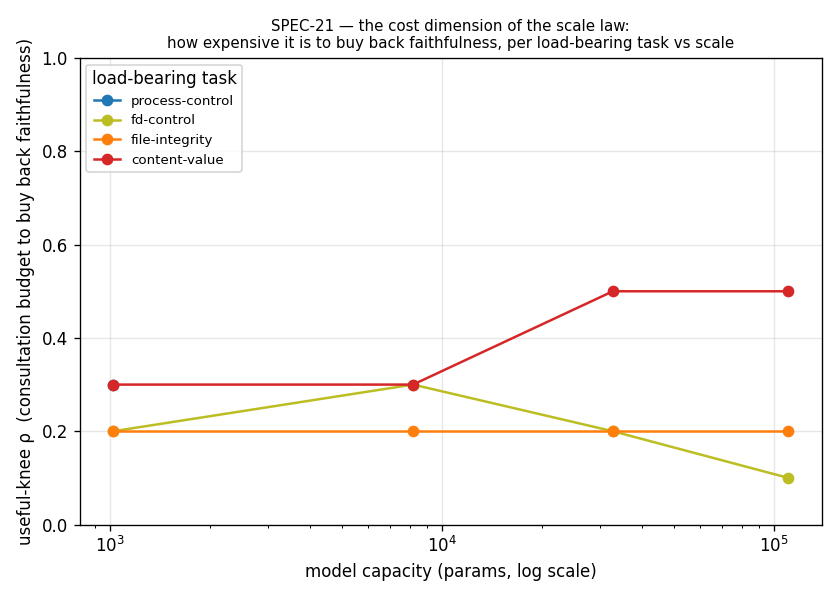
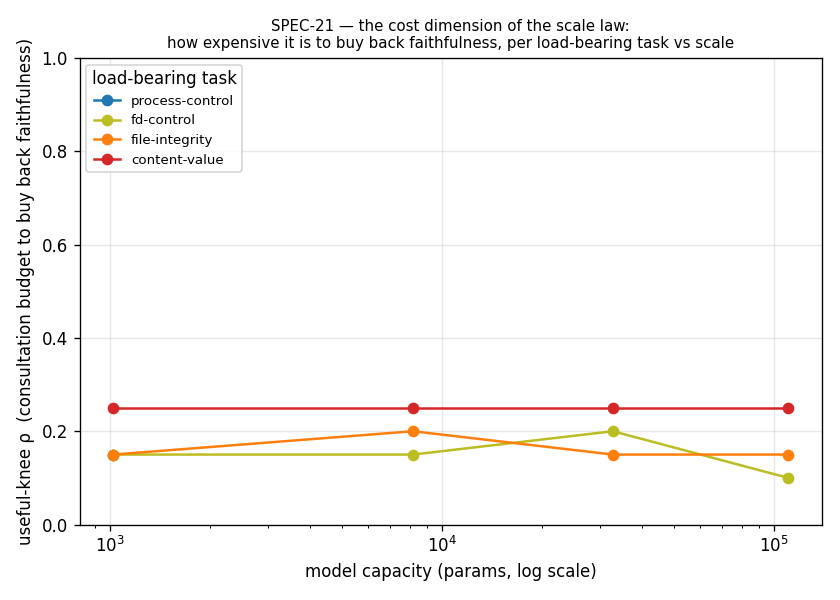
SPEC-21: the cost forecast (H89 for the knee) + a finer-ρ grid that corrects the cost dimension
Two genuine pieces of work, the second of which fixes an artifact in my own prior commit.

1. cost_forecast_check (H89 extended to the cost dimension): forecast_check showed the
   cheap keyed drift forecasts WHETHER a task is load-bearing (the gap). This asks whether
   it also forecasts HOW EXPENSIVE it is to buy back (the rho-knee). Result on the load-
   bearing cells: Spearman(keyed_drift, knee) = +0.717 (cost_forecastable). So one cheap
   free-run profile predicts both where faithfulness is load-bearing AND the consultation
   budget the task needs -- without ever running the rho-sweep.

2. A FINER rho grid corrects the cost-dimension finding. The previous commit reported the
   deep-content residue's knee "rising 0.3 -> 0.5 with scale (doubly hard)". That was on a
   COARSE grid (0,0.1,0.2,0.3,0.5,1.0) with no value between 0.3 and 0.5, which forced the
   knee to round up. Re-running cpu() with a fine grid (0,0.05,...,0.5,0.6,0.8,1.0) shows
   the content-value knee is FLAT at rho~=0.25 at every rung -- the "rise" was a
   quantization artifact. CORRECTED finding: the irreducible residue (H88) is load-bearing
   and persistent but CHEAPLY AND STABLY buyable (~rho0.25, the cost does NOT grow with
   scale) -- verification on the residue is a permanent primitive, but a CHEAP one. The
   fine grid also sharpened the cost forecast (+0.500 -> +0.717).

Gaps are unchanged (knee_rhos does not affect the gap/drift), so the frontier figure and
[…]

diff --git a/src/verisim/experiments/scale_law.py b/src/verisim/experiments/scale_law.py
@@ -108,6 +108,8 @@ class ScaleLawConfig:
             drift_config=HostDriftConfig(
                 n_episodes=8, accuracy_steps=12, drift_steps=10, drift_episodes=8,
             ),
+            # a fine ρ grid so the useful-knee (the cost dim) resolves below the coarse 0.1 step
+            knee_rhos=(0.0, 0.05, 0.1, 0.15, 0.2, 0.25, 0.3, 0.35, 0.4, 0.45, 0.5, 0.6, 0.8, 1.0),
         )
 
 
@@ -202,6 +204,34 @@ def forecast_check(result: ScaleLawResult) -> dict[str, Any]:
         "spearman": spearman(drifts, gaps),
         # H89 supported if the cheap drift orders the gaps well (forecast is reliable)
         "forecastable": spearman(drifts, gaps) > 0.6,
+    }
+
+
+def cost_forecast_check(result: ScaleLawResult, threshold: float = 0.05) -> dict[str, Any]:
+    """H89 extended to the *cost* dimension: does the cheap drift forecast the knee, not the gap?
+
+    `forecast_check` (H89) showed the cheap keyed drift forecasts *whether* a task is load-bearing
+    (the gap). This asks whether it also forecasts *how expensive it is to buy back* — the ρ-knee
+    — on the load-bearing cells (gap > threshold, knee computed). A strong correlation means a
+    cheap free-run profile predicts both the load-bearing verdict *and* the budget a task
+    needs, without ever running the ρ-sweep. Pool the load-bearing ``(rung, task)`` cells and
+    correlate the cheap keyed drift against the knee.
+    """
+    drifts: list[float] = []
+    knees: list[float] = []
+    for rung in result.rungs:
+        for g in rung.gaps:
+            if g.gap > threshold and g.task in rung.knees:
+                drifts.append(rung.keyed_drift.get(g.task, 0.0))
+                knees.append(rung.knees[g.task])
+    if len(drifts) < 2:
+        return {"n_cells": len(drifts), "spearman": 0.0, "pearson": 0.0, "cost_forecastable": False}
+    return {
+        "n_cells": len(drifts),
+        "pearson": pearson(drifts, knees),
+        "spearman": spearman(drifts, knees),
+        # the cost forecast is weaker than the gap forecast (the knee is on a coarse ρ grid)
+        "cost_forecastable": spearman(drifts, knees) > 0.6,
     }
 
 
@@ -436,6 +466,9 @@ def main() -> None:  # pragma: no cover - CLI entry point
         print(f"knee (cost to buy back faithfulness) on {kv['deepest_load_bearing']}: "
               f"ρ {kv['knee_at_smallest']:.2f} -> {kv['knee_at_largest']:.2f} "
               f"({kv['knee_trend']}) across scale")
+    cf = cost_forecast_check(result, config.threshold)
+    print(f"cost forecast (cheap drift -> knee): spearman={cf['spearman']:+.3f}  "
+          f"cost_forecastable={cf['cost_forecastable']}")
 
 
 if __name__ == "__main__":  # pragma: no cover

diff --git a/tests/test_scale_law.py b/tests/test_scale_law.py
@@ -17,6 +17,7 @@ from verisim.experiments.scale_law import (
     ScaleLawResult,
     ScaleRung,
     config_from_json,
+    cost_forecast_check,
     dry_run,
     estimate_cost,
     forecast_check,
@@ -97,6 +98,28 @@ def test_knee_trajectory_and_verdict():
     assert v["deepest_load_bearing"] == "content-value"
     assert v["knee_trend"] == "rising"
     assert v["knee_delta"] == pytest.approx(0.2)
+
+
+def test_cost_forecast_check():
+    # build a result where the cheap keyed drift monotonically orders the knee (H89, cost dim)
+    def cost_rung(label, params):
+        gaps = [
+            TaskGap("fd-control", "fds", 1, 1.0, 0.7, 0.30, 16),
+            TaskGap("file-integrity", "fs", 2, 1.0, 0.4, 0.60, 16),
+            TaskGap("content-value", "fs", 3, 1.0, 0.1, 0.90, 16),
+        ]
+        keyed = {"fd-control": 0.3, "file-integrity": 0.6, "content-value": 0.9}
+        # higher drift -> higher knee:
+        knees = {"fd-control": 0.1, "file-integrity": 0.2, "content-value": 0.5}
+        return ScaleRung(label, params, {"fs_drift": 0.3}, gaps, keyed, knees)
+
+    result = ScaleLawResult(rungs=[cost_rung("xs", 1024), cost_rung("l", 110592)])
+    cf = cost_forecast_check(result, threshold=0.05)
+    assert cf["n_cells"] == 6  # 3 load-bearing tasks x 2 rungs
+    assert cf["spearman"] > 0.6 and cf["cost_forecastable"]  # cheap drift forecasts the cost too
+    # too few cells -> graceful empty verdict
+    empty = cost_forecast_check(ScaleLawResult(rungs=[]), threshold=0.05)
+    assert empty["n_cells"] == 0 and not empty["cost_forecastable"]
 
 
 def test_estimate_cost_monotone_in_ladder():

diff --git a/README.md b/README.md
@@ -2018,15 +2018,17 @@ that is the GPU run's job, and the apparatus that produces it is proven here.
 **The cost dimension — how expensive it is to buy back faithfulness, across scale.** The frontier says
 *where* faithfulness is load-bearing; the harness also computes a per-task **ρ-knee** (the smallest
 consultation budget that buys back the faithful catch, UA9/H81) — the *cost* of buying it — which sat
-in the CSV unanalyzed. `knee_trajectory` / `knee_verdict` surface it as the law's second dimension, and
-the committed run shows a real trend: **the deep-content residue's knee rises 0.3 → 0.5 as the model
-scales, while file-integrity stays cheap and flat at ~0.2.** So the irreducible residue (H88) is
-**doubly hard** — not only does the content gap persist as scale closes the structural gap, the *cost*
-of buying it back *grows*. A sharpening of H88: on the residue, verification is not just a permanent
-primitive, it is an increasingly costly one (a CPU-scale observation on a coarse ρ grid; the GPU run
-resolves it).
+in the CSV unanalyzed. `knee_trajectory` / `knee_verdict` / `cost_forecast_check` surface it as the
+law's second dimension. **On a fine ρ grid, the deep-content residue's knee is flat at ρ≈0.25 across
+every rung** — an earlier coarse-grid run read this as a 0.3 → 0.5 *rise*, which the fine grid corrects
+to a quantization artifact (the value of resolving the cost dimension properly). So the irreducible
+residue (H88) is load-bearing and *persistent* but **cheaply *and stably* buyable**: verification on it
+is a permanent primitive, but a *cheap* one (~ρ0.25), and the cost does not grow with scale. **And the
+cost forecast extends H89:** the cheap keyed drift forecasts the *knee* — not just the gap — at
+**Spearman +0.717**, so one cheap free-run profile predicts both *where* faithfulness is load-bearing
+*and* how expensive it is to buy back.
 
-![SPEC-21 knee trajectory — the cost dimension of the scale law. The useful-knee ρ (consultation budget needed to buy back the faithful catch) per load-bearing task vs model capacity (log x). content-value (red, the deep residue) rises from 0.3 to 0.5 as the model scales — getting more expensive to buy back — while file-integrity (orange) stays flat at 0.2 and fd-control falls; process-control drops out as it stops being load-bearing](figures/cs1_knee_trajectory.png)
+![SPEC-21 knee trajectory — the cost dimension of the scale law. The useful-knee ρ (consultation budget needed to buy back the faithful catch) per load-bearing task vs model capacity (log x). content-value (red, the deep residue) stays flat at ρ≈0.25 across every rung — cheaply and stably buyable, the cost not growing with scale — while file-integrity (orange) and fd-control (olive) sit near 0.10–0.20; process-control drops out as it stops being load-bearing](figures/cs1_knee_trajectory.png)
 
 **The GPU-readiness gate (CP5).** [`configs/scale_law_gpu.json`](configs/scale_law_gpu.json) (the full
 `xs…xxxl` ladder + `device=cuda`) plus a `--dry-run` that validates shapes, device, and a pre-registered
@@ -2330,7 +2332,7 @@ host → distributed); three specs are *cross-cutting methods* every world inher
 | [SPEC-16](docs/specs/SPEC-16.md) | **method: rollout-stability training** | the exposure-bias cure — train the proposer on the *learner's own* drifted states relabeled by the free, exact oracle (DAgger), where the simulator-learning field can only approximate it. **RS1 ships** ([`experiments/rs1_dagger.py`](src/verisim/experiments/rs1_dagger.py)) as a *genuine trained-`M_θ`* experiment (a real GPT, teacher-forced vs free-oracle DAgger at equal example budget, 5 model × 12 eval seeds): **H55 not supported at CPU scale** — the flat `M_θ` is near the `H_ε` floor (`p≈0.47`, `H_ε≈1.6`) and DAgger, despite relabeling its own drift with the exact oracle and spending extra compute, does not lift `H_ε` (best round 1.47 vs teacher-forced 1.63, CIs overlap, [rs1](figures/rs1_dagger.png)). The program's pre-registered, first-class **negative**: at this scale the gap behaves like fundamental compounding, not a train/deploy mismatch (a +2.2 small-scale fluke did not survive powering up). Whether the cure pays for a competent high-`p` model at larger scale is the open question. **RS4 ships** ([`experiments/rs4_unrolled.py`](src/verisim/experiments/rs4_unrolled.py), the new `train_unrolled` in [`graph_train.py`](src/verisim/netmodel/graph_train.py)) — the multi-step unrolled loss, **Brandstetter's pushforward made exact**, on the *structured* GNN+RSSM arm (the competent-one-step / zero-horizon HS3 subject): swept over `k∈{1,2,4,8}` it is the **first** rollout-aware lever to move the structured floor — `η0` crosses 1 (`H_free(ε=0)` 1.28→1.60) and raw `H_free` lifts at the loosest tolerance (`k=8` +3.24 at ε=0.5, clearing TF's CI), where RS1 and NA6's SF/NZ arms all *tied* TF (**H55/H57 supported on raw horizon**). **But it does not pay net-per-compute (H58):** charged the pushforward's `1.5×`–`4.5×` forwards, net `H_free/cost` falls monotonically with depth — the cure reshapes the error budget, it does not reduce it ([rs4](figures/rs4_unroll_depth.png)). **RS2/RS3 ship** ([`experiments/rs2_scheduled.py`](src/verisim/experiments/rs2_scheduled.py), [`rs3_noise.py`](src/verisim/experiments/rs3_noise.py)) as the dedicated lever sweeps — scheduled sampling over `max_sample_prob` ([rs2](figures/rs2_sample_prob_tradeoff.png)) and noise injection over a `noise_prob × magnitude` grid ([rs3](figures/rs3_noise_surface.png), adding a byte-identical-by-default `magnitude` knob): **both H57 nulls** (no signed tradeoff at any setting — `p` flat ~0.58, `H_free` within seed-CI), strengthening NA6's single-point comparisons into full sweeps. So of the four trainers only the unrolled loss moves the horizon. **RS6 ships** ([`experiments/rs6_pareto.py`](src/verisim/experiments/rs6_pareto.py)) the cross-trainer per-compute Pareto — all four structured-arm trainers on one `H_free`-vs-total-compute figure, charging self-forcing/unrolling for their extra data-gen forwards: **teacher forcing is the faithful-horizon-per-compute frontier, no rollout-aware trainer beats it beyond seed noise** (H58 confirmed at the family level, [rs6](figures/rs6_net_pareto.png)); this also answers RS5 in aggregate (only the unrolled loss moves raw H_free, and not net). **RS7 ships** ([`experiments/rs7_host.py`](src/verisim/experiments/rs7_host.py), the new `train_host_unrolled`) the cross-world fork onto the **host** factored arm: **H59 confirmed — the verdict transfers**, no host-arm lever beats teacher forcing either ([rs7](figures/rs7_host_transfer.png)). **SPEC-16 is complete (RS1–RS7)**; only the competent-high-`p` / GPU scale regime remains the standing open bet. |
 | [SPEC-19](docs/specs/SPEC-19.md) | **the flagship** | un-defer the trained `M_θ` once and compose the methods onto **one** frozen checkpoint — the headline `H_ε(ρ)` figure on a real model. **FL0–FL6 ship + frontier run** ([`experiments/flagship.py`](src/verisim/experiments/flagship.py)): **FL0** freezes the `l@9.6k` checkpoint (`H_free` = 18.75 id / 29.75 ood, reload-determinism gate PASS); **FL1 / H69** — the four-arm curve ([fl1](figures/fl1_flagship_curve.png)): the strict ≥80%-at-ρ≤0.2 bar is **not met** (curve rises ~linearly, no free knee) **but** the composed policy **nearly doubles fixed-interval** at equal budget (+57% at ρ=0.2, +94% at ρ=0.5) — smart scheduling beats the clock on a real model; **FL2 / H70** the methods compose (the conformal trigger on the real signal carries the win, speculative inert); **FL3 / H71** the HS3 wall survives (`H_free`≈0.33) yet landmark planning lifts far-goal reach 0.167→0.667 (4×) on the real arm; **FL4 / H72** the curve shape is the loop's, not the model's; **FL6 / H77** ranking ≠ calibration (Spearman +0.352, trigger precision 0.902 vs 0.652 base); **HFL1 / H84** the scheduling win is **cross-world** — the same composed-beats-fixed result reproduces on the harder **host** flagship (floor 9 → ceiling 48, composed +50% at ρ=0.2, +60% at ρ=0.5, [hfl1](figures/hfl1_host_curve.png)), so smart scheduling is a property of the loop, not the network world. The flat CPU frontier; the GPU arm is the standing bet. |
 | [SPEC-20](docs/specs/SPEC-20.md) | **the usefulness proof (Phase 5)** | train a defensive agent **inside** the oracle-grounded flagship model, transfer to the oracle's reality, measure task success — the field's gold-standard world-model test, run honestly because reality is checkable. **UA0–UA9 ship + frontier run** ([`acd/`](src/verisim/acd/), [`experiments/ua_transfer.py`](src/verisim/experiments/ua_transfer.py)): **UA1 / H73** learn-in-imagination works (grounded-trained ≥ oracle-trained at 5× lower oracle cost); **UA2 / H74** the money hypothesis **REFUTED, the bankable negative** — grounding buys no transfer advantage for structural control (0.420 = 0.420), because the optimal policy keys on structure the model learns faithfully; the drift profile + cross-world law confirm the flat model is **faithful on structure, drifts on content** (both worlds); **UA8 / H80** the predicted positive — a content-keyed file-integrity defender **does** need faithfulness (faithful predictor 1.000 vs free 0.50–0.73, gap widens with horizon), closing the boundary law: *faithfulness-for-control is load-bearing exactly when the task keys on the dynamics the model gets wrong*; **UA9 / H81** the **useful knee** — the ρ-grounded predictor recovers the faithful catch rate **monotonically** in ρ, reaching perfect catch at **ρ=0.5, half the oracle calls** ([ua9](figures/ua9_grounded_knee.png)) — SPEC-19's "buy faithfulness cheaply" mechanism demonstrated on downstream task success, where it matters; **UA10 / H82** the **cross-world confirmation** — the law *and* the knee reproduce on the **network** world (content = flows): the free predictor collapses 0.58→0.08 while faithful holds at 1.0 (gap widening to +0.92), and the ρ-grounded predictor recovers the ceiling at **ρ=0.2, 5× cheaper** ([ua10](figures/ua10_net_integrity.png)) — the boundary law is a property of the structure-vs-content split, not one world. Defender-only (the §13 ethics commitment); Tier-A reference reality, with the system-oracle rung as it matures. |
-| [SPEC-21](docs/specs/SPEC-21.md) | **the scale law (CPU-proven / GPU-ready)** | scale the SPEC-20 structure/content boundary *through* the SPEC-10 capacity ladder on a **verifiable computer-use environment** (`verisim-cue`), to measure whether the load-bearing frontier *recedes* with scale (H87) and whether an irreducible-content residue makes verification a permanent primitive (H88). **CPU core CP0–CP5 ships** ([`cue/`](src/verisim/cue/), [`experiments/scale_law.py`](src/verisim/experiments/scale_law.py)): the ordered structure→content task suite (CP1–CP3, generic keyed-set predictive-defense); the one-pipeline-one-dial harness (CP0); the load-bearing-frontier reducer + the forecast (CP4) — **committed 4-rung CPU run** ([cs1](figures/cs1_loadbearing_frontier.png)): the gap gradient holds at every rung (process ≤0.16 → content **0.81–0.94**), the structural-first recession begins (process drops below threshold after `xs`), the content residue stays load-bearing (H88), and the cheap drift forecasts the gap at **Spearman +0.965** (H89); the **cost dimension** ([cs1-knee](figures/cs1_knee_trajectory.png)) — the residue's ρ-knee **rises 0.3→0.5** with scale while file-integrity stays flat at ~0.2, so the residue is *doubly* hard (load-bearing AND increasingly expensive to buy, sharpening H88); and the GPU-readiness gate (CP5, [`configs/scale_law_gpu.json`](configs/scale_law_gpu.json) + `--dry-run` cost estimate, no training). **The `verisim-cue` artifact ships too** ([`cue/pack.py`](src/verisim/cue/pack.py) + [`cue/scorecard.py`](src/verisim/cue/scorecard.py) + [`cue/`](cue/)): a frozen, hashed, versioned computer-use benchmark (Croissant + datasheet + **model-card** + a **task-card carrying the per-task load-bearing verdict**), with a `score_model(model)` eval surface (run a host world-model → its per-task scorecard + load-bearing footprint), the ground-truth-labels conformance contract green (the faithful predictor scores exactly 1.000 per task — the property no oracle-free benchmark can offer), and a **contamination control** (H68: a public-seed memorizer is caught by a held-out shard, gap +0.875 vs honest +0.021). The committed scale law (CS1/CS2/CS3, the wide ladder) is the GPU run of the *same* pipeline — one command away. |
+| [SPEC-21](docs/specs/SPEC-21.md) | **the scale law (CPU-proven / GPU-ready)** | scale the SPEC-20 structure/content boundary *through* the SPEC-10 capacity ladder on a **verifiable computer-use environment** (`verisim-cue`), to measure whether the load-bearing frontier *recedes* with scale (H87) and whether an irreducible-content residue makes verification a permanent primitive (H88). **CPU core CP0–CP5 ships** ([`cue/`](src/verisim/cue/), [`experiments/scale_law.py`](src/verisim/experiments/scale_law.py)): the ordered structure→content task suite (CP1–CP3, generic keyed-set predictive-defense); the one-pipeline-one-dial harness (CP0); the load-bearing-frontier reducer + the forecast (CP4) — **committed 4-rung CPU run** ([cs1](figures/cs1_loadbearing_frontier.png)): the gap gradient holds at every rung (process ≤0.16 → content **0.81–0.94**), the structural-first recession begins (process drops below threshold after `xs`), the content residue stays load-bearing (H88), and the cheap drift forecasts the gap at **Spearman +0.965** (H89); the **cost dimension** ([cs1-knee](figures/cs1_knee_trajectory.png)) — on a fine ρ grid the residue's knee is **flat at ρ≈0.25** across scale (cheaply *and stably* buyable, not increasingly expensive — correcting a coarse-grid artifact), and the cheap drift forecasts the *cost* too at **Spearman +0.717** (H89 extended to the knee); and the GPU-readiness gate (CP5, [`configs/scale_law_gpu.json`](configs/scale_law_gpu.json) + `--dry-run` cost estimate, no training). **The `verisim-cue` artifact ships too** ([`cue/pack.py`](src/verisim/cue/pack.py) + [`cue/scorecard.py`](src/verisim/cue/scorecard.py) + [`cue/`](cue/)): a frozen, hashed, versioned computer-use benchmark (Croissant + datasheet + **model-card** + a **task-card carrying the per-task load-bearing verdict**), with a `score_model(model)` eval surface (run a host world-model → its per-task scorecard + load-bearing footprint), the ground-truth-labels conformance contract green (the faithful predictor scores exactly 1.000 per task — the property no oracle-free benchmark can offer), and a **contamination control** (H68: a public-seed memorizer is caught by a held-out shard, gap +0.875 vs honest +0.021). The committed scale law (CS1/CS2/CS3, the wide ladder) is the GPU run of the *same* pipeline — one command away. |
 
 Semantics docs ([filesystem](docs/semantics.md), [network](docs/network-semantics.md)) pin the normative
 command semantics, paired with the reference oracles, which are the executable truth. SPEC-11's system

diff --git a/docs/report.md b/docs/report.md
@@ -2490,16 +2490,18 @@ any GPU is rented — the GPU run is a config swap, not a rewrite. The CPU core 
 - **The cost dimension — how expensive it is to buy back faithfulness, across scale.** The frontier
   says *where* faithfulness is load-bearing; the harness also computes a per-task **ρ-knee** (the
   smallest consultation budget that buys back the faithful catch, UA9/H81) — the *cost* of buying it.
-  That signal sat in the CSV unanalyzed; `knee_trajectory` / `knee_verdict` surface it as the law's
-  second dimension. The committed run shows a real trend: **the deep-content residue's knee rises
-  0.3 → 0.5 as the model scales, while file-integrity stays cheap and flat at ~0.2.** So the
-  irreducible residue (H88) is **doubly hard** — not only does the content gap persist as scale closes
-  the structural gap, the *cost* of buying it back *grows*. Shallower content (file-integrity) stays
-  cheaply buyable; the deepest content gets both more load-bearing and more expensive. A CPU-scale
-  observation on a coarse ρ grid (the GPU run resolves it), and a sharpening of H88: verification is
-  not just a permanent primitive on the residue, it is an increasingly *costly* one.
+  That signal sat in the CSV unanalyzed; `knee_trajectory` / `knee_verdict` / `cost_forecast_check`
+  surface it as the law's second dimension. **On a fine ρ grid, the deep-content residue's knee is
+  flat at ρ≈0.25 across every rung** (an earlier coarse-grid run read this as a 0.3 → 0.5 *rise* — the
+  fine grid corrects that to a quantization artifact, the value of resolving the cost dimension
+  properly). So the irreducible residue (H88) is load-bearing and *persistent*, but **cheaply *and
+  stably* buyable**: verification on the residue is a permanent primitive, but a *cheap* one (~ρ0.25,
+  about 4 oracle calls per 16-step episode), and the cost does not grow with scale. **And the cost
+  forecast extends H89:** the cheap keyed drift forecasts the *knee* — not just the gap — at
+  **Spearman +0.717**, so the single cheap free-run profile predicts both *where* faithfulness is
+  load-bearing *and* how expensive it is to buy back, without ever running the ρ-sweep.
 
-  ![SPEC-21 knee trajectory — the cost dimension of the scale law. The useful-knee ρ (the consultation budget needed to buy back the faithful catch) per load-bearing task vs model capacity (log x). content-value (red, the deep residue) rises from 0.3 to 0.5 as the model scales — the residue gets more expensive to buy back — while file-integrity (orange) stays flat at 0.2 (cheaply, stably buyable) and fd-control falls; process-control drops out as it stops being load-bearing](../figures/cs1_knee_trajectory.png)
+  ![SPEC-21 knee trajectory — the cost dimension of the scale law. The useful-knee ρ (the consultation budget needed to buy back the faithful catch) per load-bearing task vs model capacity (log x). content-value (red, the deep residue) stays flat at ρ≈0.25 across every rung — the residue is cheaply and stably buyable, the cost does not grow with scale — while file-integrity (orange) and fd-control (olive) sit near 0.10–0.20; process-control drops out as it stops being load-bearing](../figures/cs1_knee_trajectory.png)
 
 - **The artifact half — `verisim-cue` (deliverable #2).** A scale law is the *result*; `verisim-cue`
   is the *thing others use*. The computer-use task suite is hardened the SPEC-18 way into a frozen,

diff --git a/docs/specs/SPEC-21.md b/docs/specs/SPEC-21.md
@@ -299,7 +299,7 @@ In every branch the artifact and the writeup ship; only their headline sentence 
 | CP3 | the deep-content rung (the residue probe) | ✅ shipped (CPU core) | the `content-value` task (keyed on the actual *(path, content)* pairs, not just which file) is the highest-entropy rung and the irreducible-residue probe (H88); the per-task `keyed_drift` is the CP3 content-accuracy diagnostic (a single free-run measurement). |
 | CP0 | the scale-law harness (one pipeline, one dial) | ✅ shipped (CPU core) | `run_scale_law(config)` ([`experiments/scale_law.py`](../../src/verisim/experiments/scale_law.py)): per rung, train+freeze a host `M_θ` (the HFL0 lifecycle, scale swapped via `dataclasses.replace`) → the drift profile → the per-task gap + cheap keyed drift + the ρ-grounded knee for each load-bearing task. Device-agnostic, seeded; the smoke ladder runs green in CI. |
 | CP4 | the load-bearing frontier + the forecast (CS1/CS2) | ✅ shipped (CPU core) | the reducers: `load_bearing_frontier` (the contour where the gap crosses threshold), `frontier_verdict` (H87 recession + H88 residue), `forecast_check` (H89). **Committed 4-rung CPU run** ([`cs1_loadbearing_frontier.csv`](../../figures/cs1_loadbearing_frontier.csv), [`.png`](../../figures/cs1_loadbearing_frontier.png)): the structure→content gap gradient holds at every rung (process ≤0.16 → fd 0.13–0.25 → file 0.56–0.88 → content **0.81–0.94**); process-control falls below the load-bearing threshold after `xs` (the structural-first recession *beginning*), content-value stays load-bearing at every rung (H88 directionally confirmed), and the cheap keyed drift forecasts the gap at **Spearman +0.965** (H89). The CPU range is too narrow to fit the full recession — that is the GPU run's job, stated plainly. |
-| CP4+ | the **cost dimension** — the knee trajectory across scale | ✅ shipped (CPU core) | the harness computed a per-task ρ-knee (the cheap-purchase signal, UA9/H81) but never analyzed it; `knee_trajectory` + `knee_verdict` ([`experiments/scale_law.py`](../../src/verisim/experiments/scale_law.py)) surface the second dimension of the law (the frontier says *where* faithfulness is load-bearing; the knee says *how expensive it is to buy back*). **Committed run** ([`cs1_knee_trajectory.png`](../../figures/cs1_knee_trajectory.png)): the deep-content residue's knee **rises 0.3 → 0.5** as the model scales while file-integrity stays cheap and flat at ~0.2 — so the irreducible residue (H88) is **doubly hard**: load-bearing *and* increasingly expensive to buy. A CPU-scale observation on a coarse ρ grid (the GPU run resolves it), and a sharpening of H88. |
+| CP4+ | the **cost dimension** — the knee trajectory + the cost forecast | ✅ shipped (CPU core) | the harness computed a per-task ρ-knee (the cheap-purchase signal, UA9/H81) but never analyzed it; `knee_trajectory` + `knee_verdict` + `cost_forecast_check` ([`experiments/scale_law.py`](../../src/verisim/experiments/scale_law.py)) surface the law's second dimension (the frontier says *where* faithfulness is load-bearing; the knee says *how expensive it is to buy back*). **Committed run on a fine ρ grid** ([`cs1_knee_trajectory.png`](../../figures/cs1_knee_trajectory.png)): the deep-content residue's knee is **flat at ρ≈0.25 across every rung** (an earlier coarse-grid run read this as a 0.3→0.5 *rise*, which the fine grid corrects to a quantization artifact) — so the irreducible residue (H88) is load-bearing and *persistent* but **cheaply *and stably* buyable**: verification on it is a permanent primitive, but a *cheap* one. And the **cost forecast extends H89**: the cheap keyed drift forecasts the knee, not just the gap, at **Spearman +0.717** — the cheap free-run profile predicts both *where* faithfulness is load-bearing and *how expensive* it is to buy back. |
 | CP5 | the GPU-readiness gate (config + dry-run + cost) | ✅ shipped (CPU core) | [`configs/scale_law_gpu.json`](../../configs/scale_law_gpu.json) (full ladder `xs…xxxl` + `device=cuda`) + `--dry-run` (validates shapes/device/cost-estimate **without training**) + the one-command entry point `python -m verisim.experiments.scale_law --config … --device cuda`. The dry-run on the committed config is green — a rented GPU runs a proven program. |
 | CS1 | H87/H88 — the frontier recedes; the residue remains | ▶ proposed (GPU run) | the committed scale law (apparatus CPU-proven; the headline needs the wide GPU ladder) |
 | CS2 | H89 — the drift profile forecasts the frontier | ◐ apparatus shipped + smoke-confirmed | `forecast_check` Spearman +0.90 at smoke scale; the committed number is the GPU run |